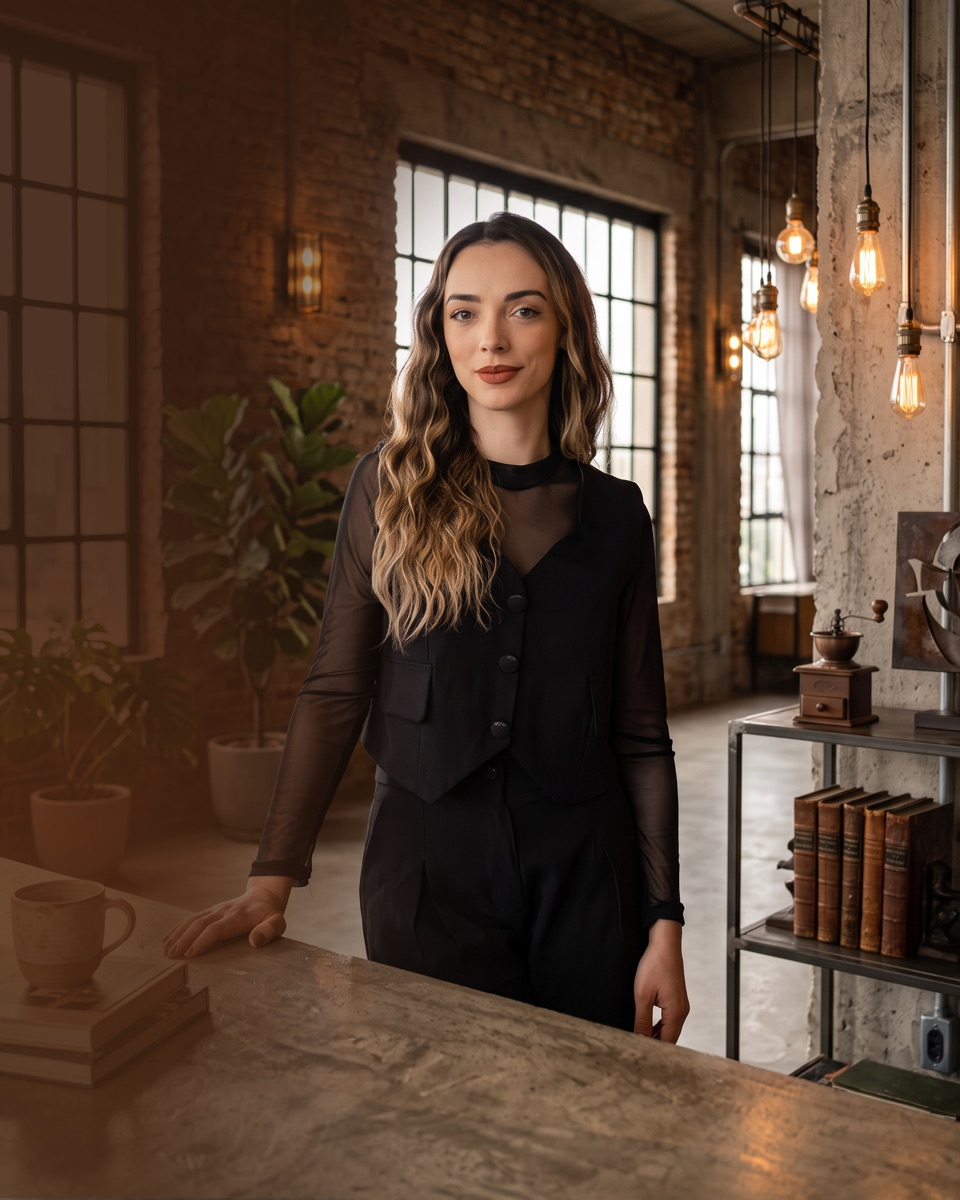
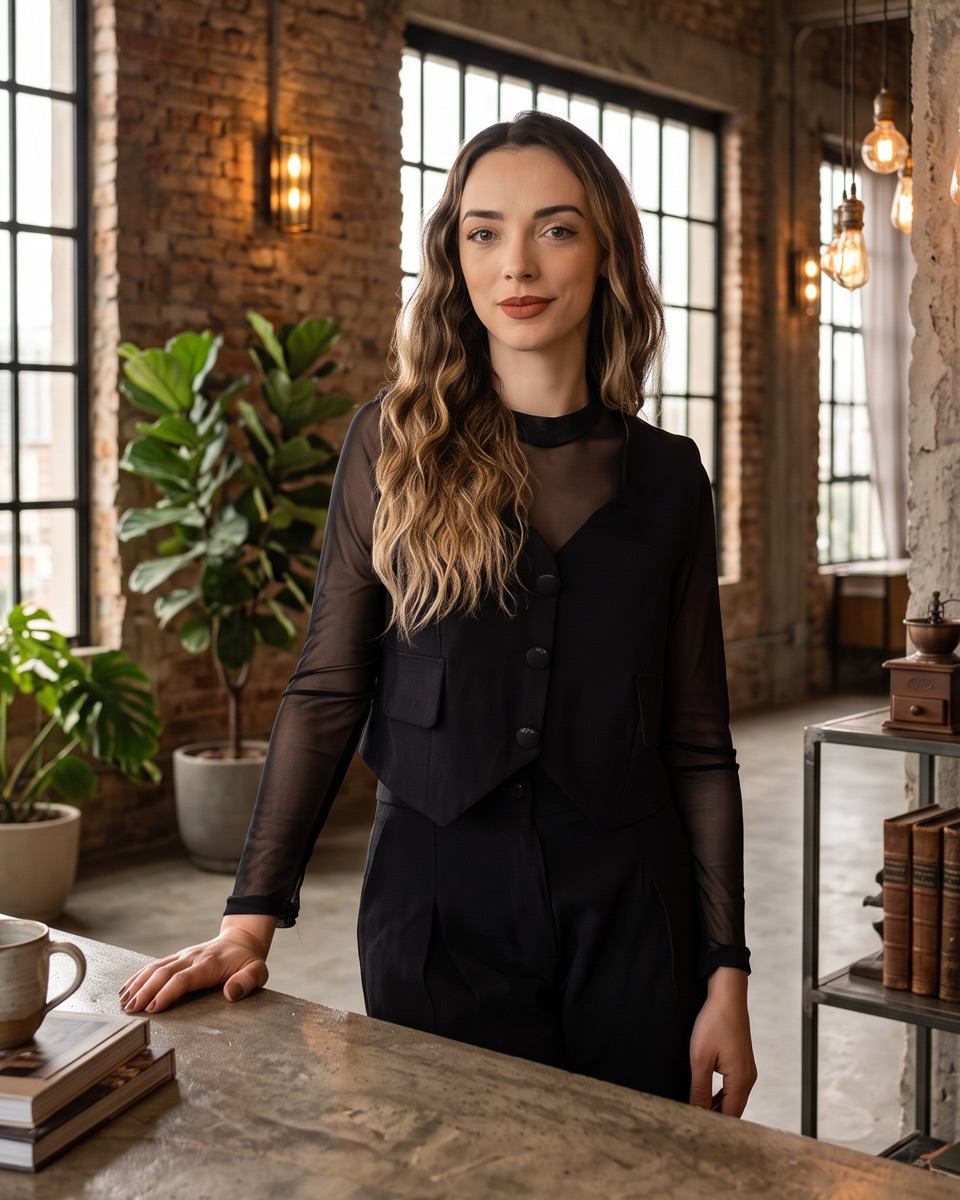
Atualiza fotos otimizadas de Bárbara Avila e Gerson Lima

diff --git a/views/jurors.php b/views/jurors.php
@@ -24,7 +24,7 @@
         </div>
     </article>
     <article class="juror-profile" id="barbara-avila" aria-labelledby="barbara-name">
-        <figure class="juror-photo"><img src="/assets/img/jurados/barbara-avila.jpg" alt="Retrato de Bárbara Avila" width="960" height="1200" loading="lazy" decoding="async"></figure>
+        <figure class="juror-photo"><img src="/assets/img/jurados/barbara-avila.jpg?v=2" alt="Retrato de Bárbara Avila" width="960" height="1200" loading="lazy" decoding="async"></figure>
         <div class="juror-bio">
             <span class="juror-area">Arquitetura e design</span>
             <h2 id="barbara-name">Bárbara <span>Avila</span></h2>
@@ -35,7 +35,7 @@
         </div>
     </article>
     <article class="juror-profile" id="gerson-lima" aria-labelledby="gerson-name">
-        <figure class="juror-photo"><img src="/assets/img/jurados/gerson-lima.jpg" alt="Retrato de Gerson Lima" width="960" height="1200" loading="lazy" decoding="async"></figure>
+        <figure class="juror-photo"><img src="/assets/img/jurados/gerson-lima.jpg?v=2" alt="Retrato de Gerson Lima" width="960" height="1200" loading="lazy" decoding="async"></figure>
         <div class="juror-bio">
             <span class="juror-area">Fotografia e olhar editorial</span>
             <h2 id="gerson-name">Gerson <span>Lima</span></h2>
